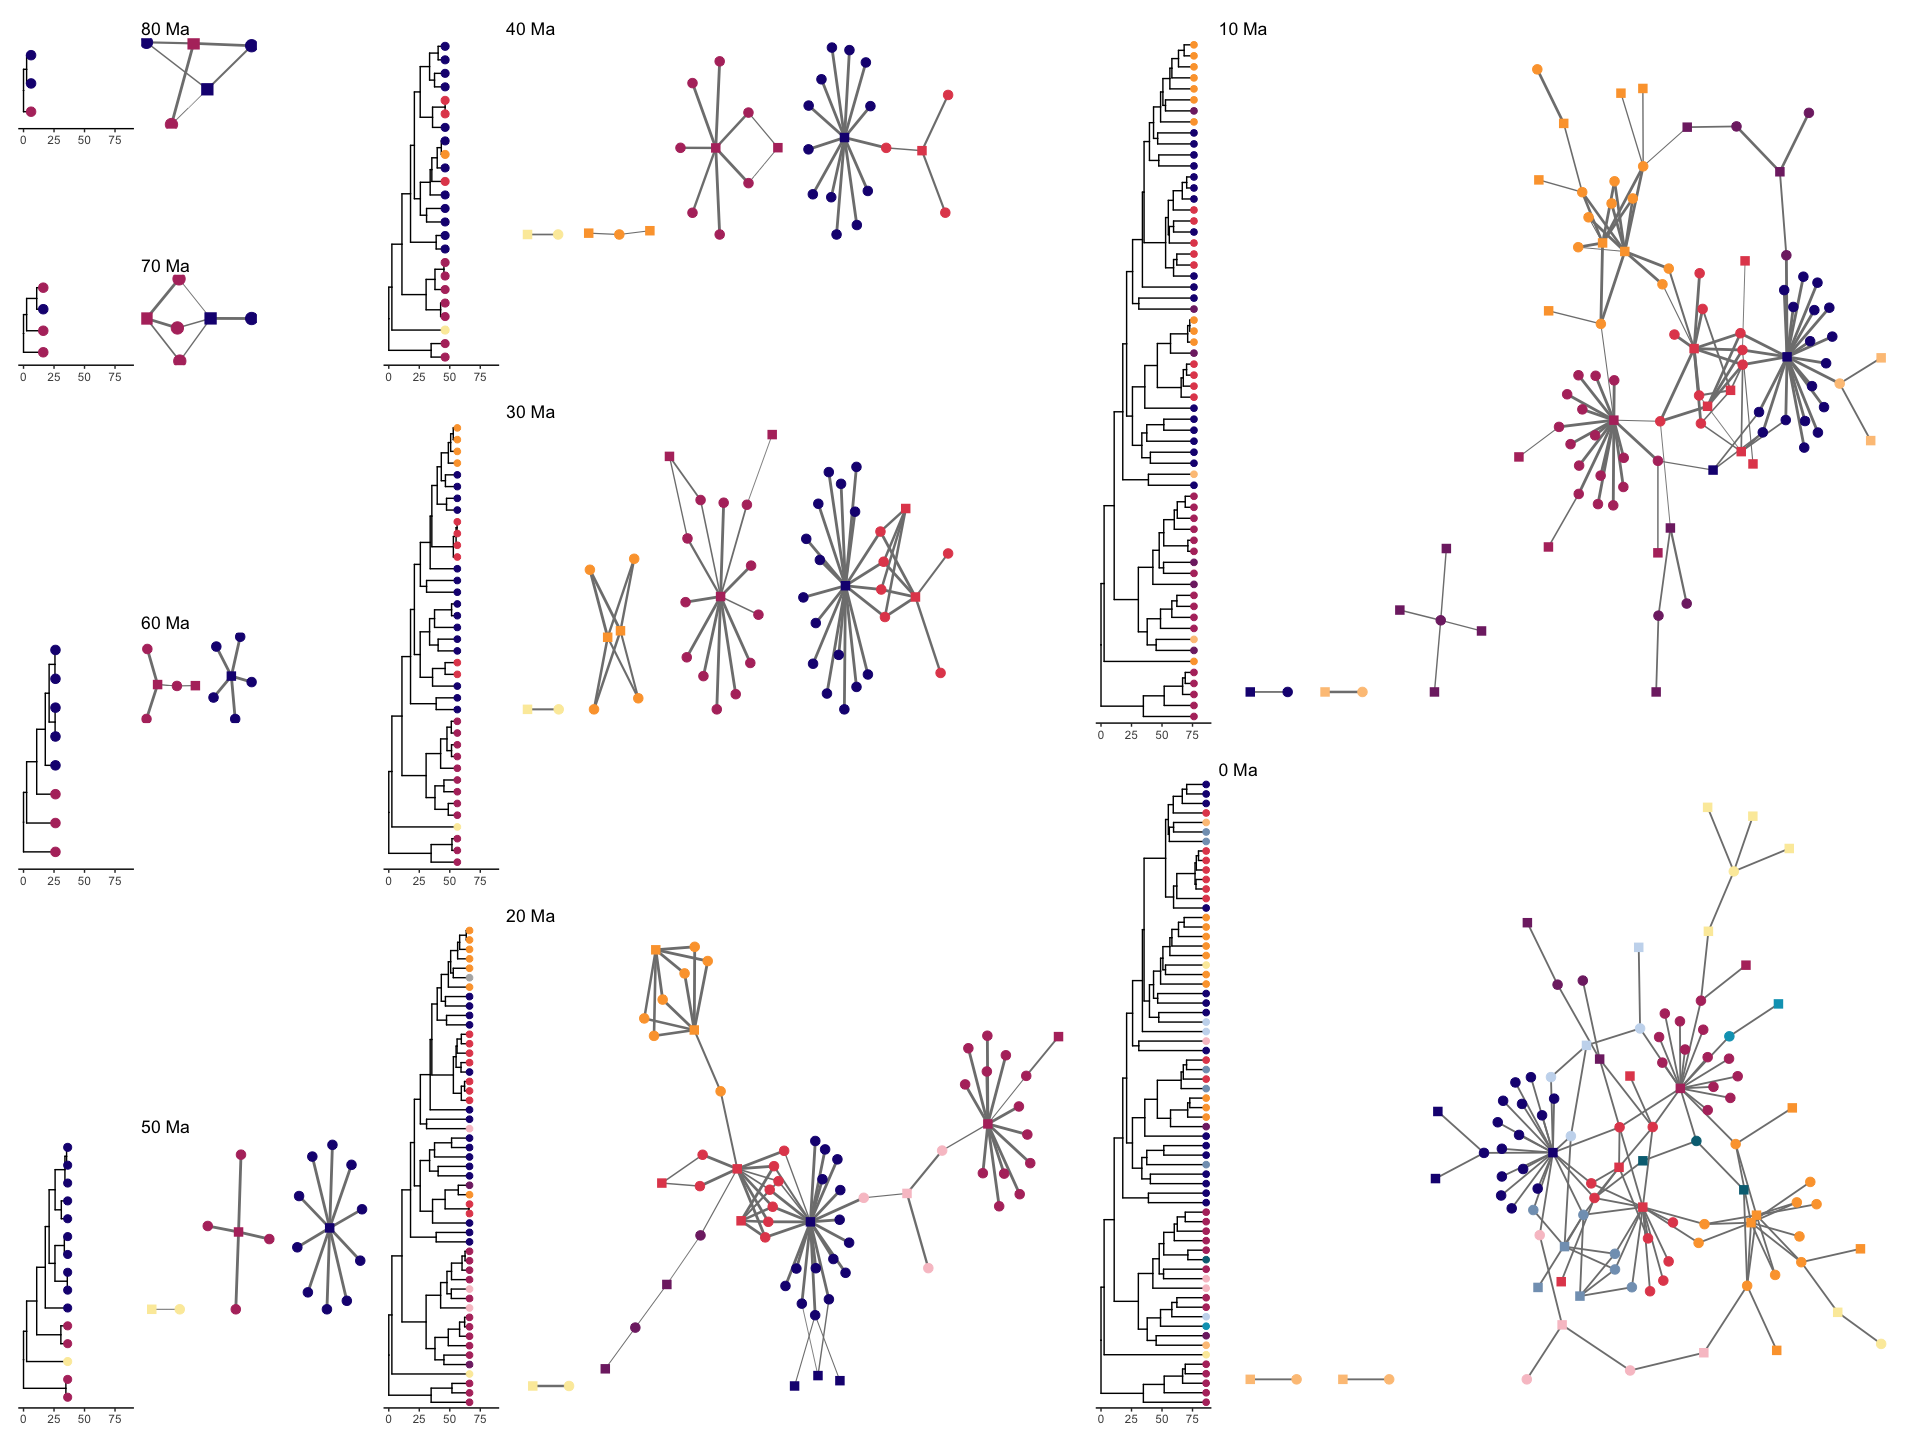
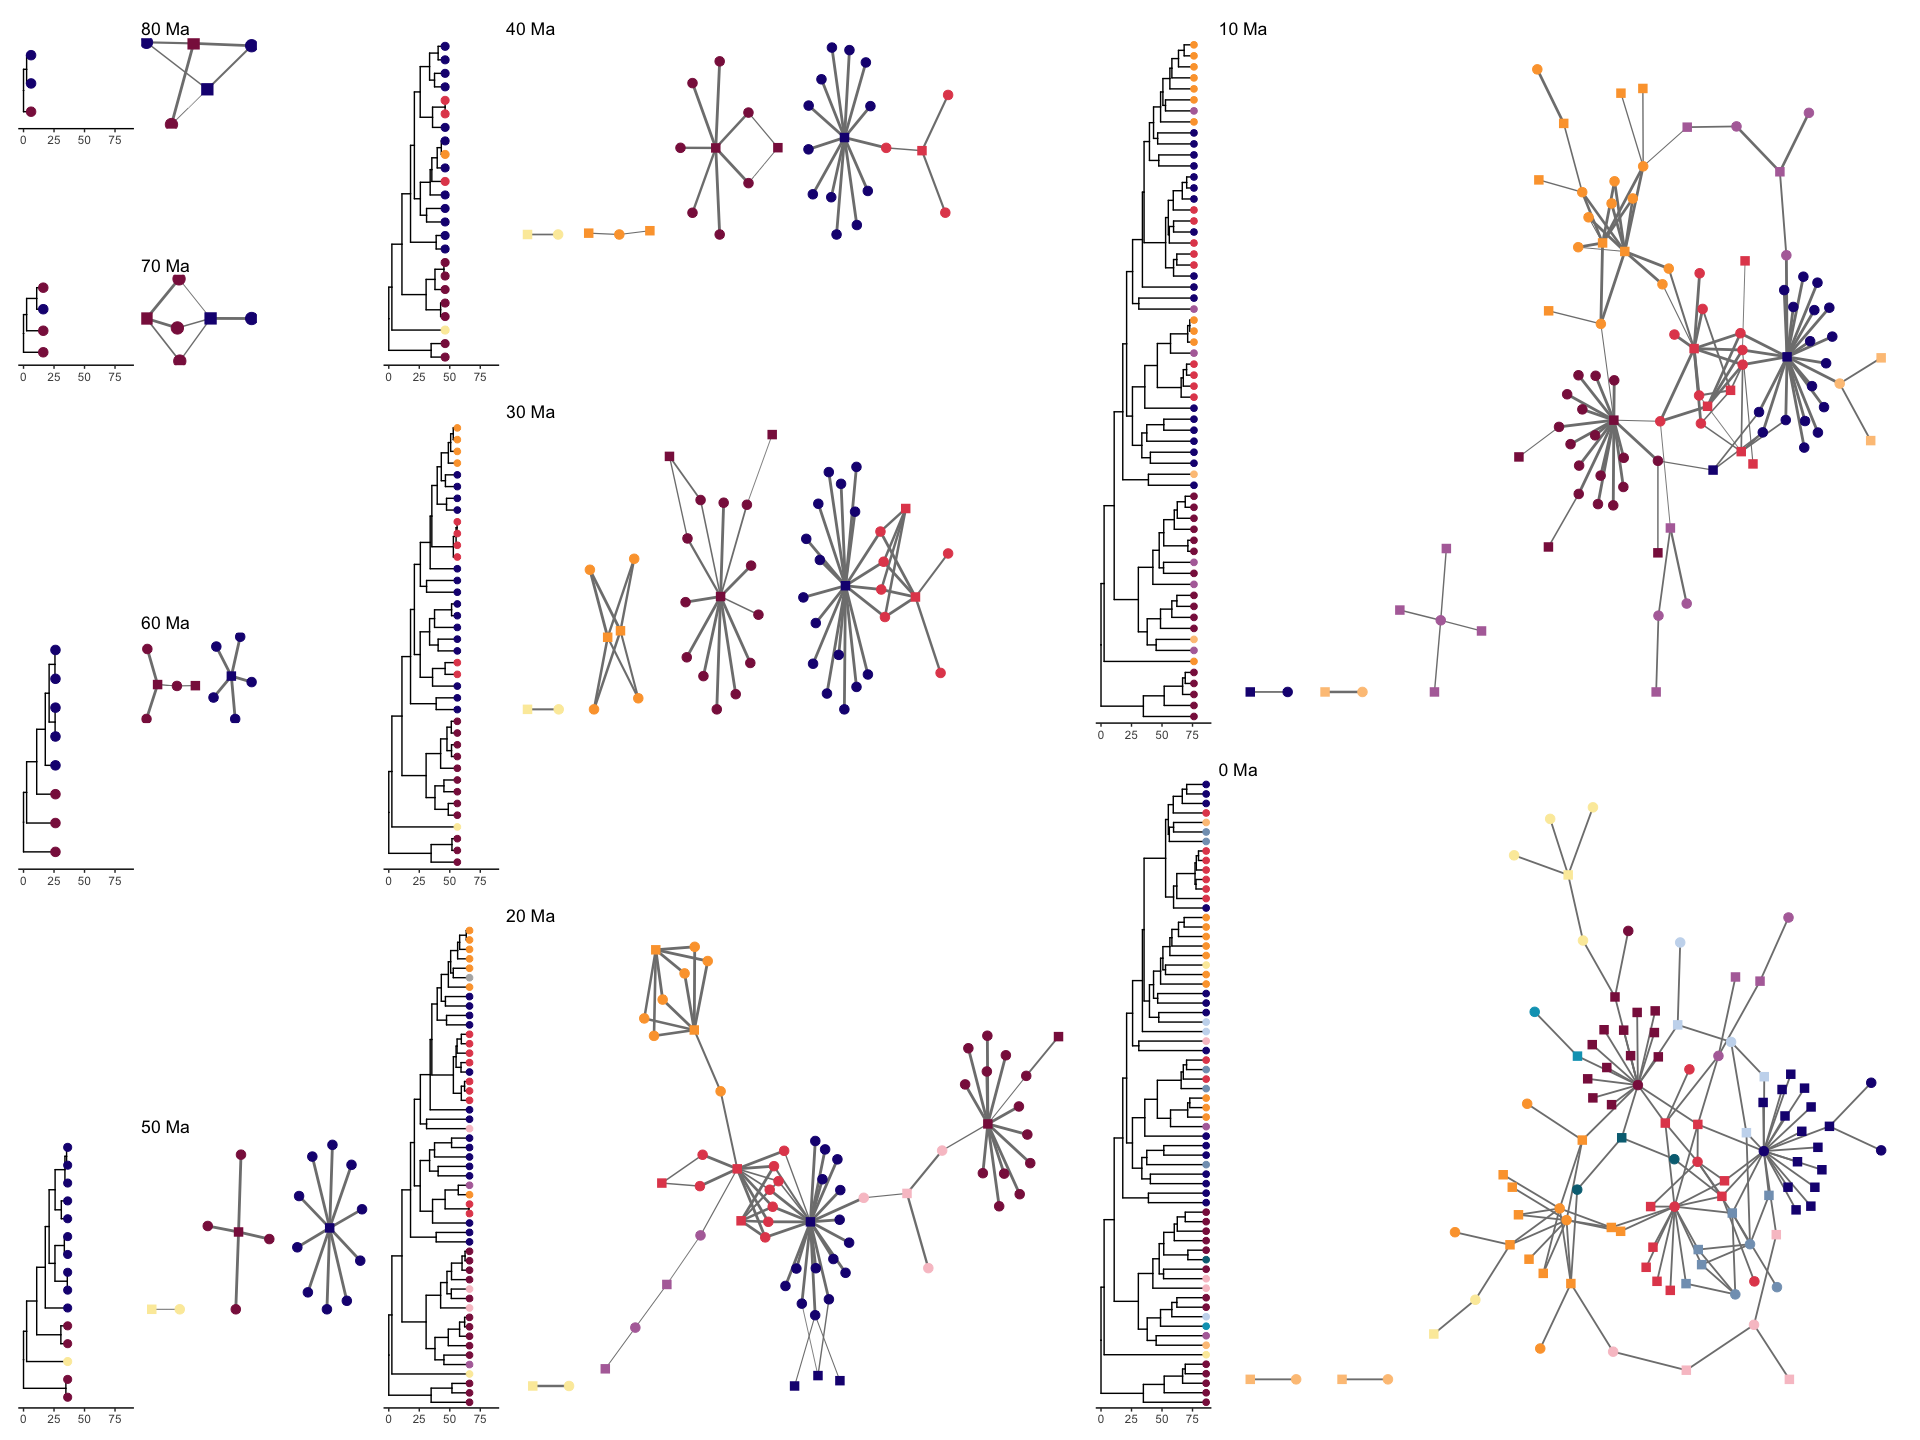
update evolnets functions in script 2 and paper name in all scripts

diff --git a/2-Character_history.md b/2-Character_history.md
@@ -1,13 +1,13 @@
 Pieridae host repertoire - Character history
 ================
 Mariana Braga
-21 May, 2021
+09 July, 2021
 
 ------------------------------------------------------------------------
 
-Script 2 for analyses performed in Braga et al. 2021 *Evolution of
-butterfly-plant networks over time, as revealed by Bayesian inference of
-host repertoire*.
+Script 2 for analyses performed in Braga et al. 2021 Ecology Letters
+*Phylogenetic reconstruction of ancestral ecological networks through
+time for pierid butterflies and their host plants*.
 
 ## Set up
 
@@ -145,20 +145,14 @@ you can skip it and load the edge list below.
 ``` r
 # which internal nodes to use? I'll go for all of them.
 nodes <- 67:131
-pp_at_nodes <- posterior_at_nodes(history_bl1, nodes, host_tree)
+pp_at_nodes <- evolnets::posterior_at_nodes(history_bl1, nodes, host_tree)[[2]]
 
-graph <- graph_from_incidence_matrix(pp_at_nodes, weighted = TRUE)
+graph <- igraph::graph_from_incidence_matrix(pp_at_nodes, weighted = TRUE)
 
-edge_list_nodes <- get.data.frame(graph, what = "edges") %>% 
-  mutate(from = factor(from, levels = host_tree$tip.label),
-         to = factor(to, levels = paste0("Index_",nodes))) %>% 
+edge_list_nodes <- igraph::get.data.frame(graph, what = "edges") %>% 
+  dplyr::mutate(from = factor(from, levels = paste0("Index_",nodes)),
+                to = factor(to, levels = host_tree$tip.label)) %>% 
   rename(p = weight)
-```
-
-You can simply read the edge list like so
-
-``` r
-edge_list_nodes <- readRDS("./inference/states_at_nodes_bl1.rds")
 ```
 
 Now we can plot the probabilities of interactions at internal nodes.
@@ -180,7 +174,7 @@ gg_all_nodes <- ggplot(edge_list_nodes, aes(x = to, y = from)) +
     axis.title.y = element_blank())
 
 # only high probability
-gg_high_nodes <- filter(edge_list_nodes, p > 0.9) %>%
+gg_high_nodes <- filter(edge_list_nodes, p >= 0.9) %>%
   ggplot(aes(x = to, y = from)) + 
   geom_tile(aes(fill = p)) +
   scale_x_discrete(drop = FALSE) +
@@ -199,7 +193,7 @@ gg_high_nodes <- filter(edge_list_nodes, p > 0.9) %>%
 gg_all_nodes + gg_high_nodes
 ```
 
-![](2-Character_history_files/figure-gfm/unnamed-chunk-13-1.png)<!-- -->
+![](2-Character_history_files/figure-gfm/unnamed-chunk-12-1.png)<!-- -->
 
 ### Ancestral networks
 
@@ -224,12 +218,13 @@ ages <- seq(80,10,-10)
 
 ``` r
 # slow!
-pp_at_ages <- posterior_at_ages(history_bl1, ages, tree, host_tree)
+at_ages <- posterior_at_ages(history_bl1, ages, tree, host_tree)
+pp_at_ages <- at_ages[[2]]
 ```
 
 ``` r
 # quick solution 
-pp_at_ages <- readRDS("./inference/list_m_at_ages_bl1.rds")
+pp_at_ages <- readRDS("./inference/pp_at_ages.rds")
 ```
 
 We can add the extant network to the list with all ancestral networks,
@@ -250,9 +245,9 @@ higher than the threshold are assumed to be present and all others are
 assumed absent.
 
 ``` r
-weighted_net_10 <- get_incidence_matrix_at_ages(pp_at_ages, pt = 0.1, weighted = TRUE)
-weighted_net_50 <- get_incidence_matrix_at_ages(pp_at_ages, pt = 0.5, weighted = TRUE)
-binary_net_90 <- get_incidence_matrix_at_ages(pp_at_ages, pt = 0.9, weighted = FALSE)
+weighted_net_10 <- get_summary_network(pp_at_ages, pt = 0.1, weighted = TRUE)
+weighted_net_50 <- get_summary_network(pp_at_ages, pt = 0.5, weighted = TRUE)
+binary_net_90 <- get_summary_network(pp_at_ages, pt = 0.9, weighted = FALSE)
 ```
 
 Now we can identify the modules in each of the three summary networks at
@@ -287,7 +282,7 @@ for(i in 1:length(weighted_net_50)){
 
 ``` r
 # you can check the modules for some network like so
-plotModuleWeb(wmod50_50, labsize = 0.4)
+bipartite::plotModuleWeb(wmod50_50, labsize = 0.4)
 ```
 
 ![](2-Character_history_files/figure-gfm/one_wmodule-1.png)<!-- -->
@@ -310,7 +305,7 @@ list_wtgraphs50 <- list()
 for(n in 1:length(weighted_net_50)){
   wnet <- as.matrix(weighted_net_50[[n]])
   
-  wgraph <- as_tbl_graph(wnet, directed = F) %>% 
+  wgraph <- as_tbl_graph(t(wnet), directed = F) %>%    
     left_join(filter(all_wmod50_edited, age == ages[n]), by = "name") %>% 
     select(type, name, module)
   
@@ -349,13 +344,13 @@ list_tip_dataw50[[9]] <- tibble(label = tree$tip.label) %>%
   inner_join(filter(all_wmod50_edited, age == 0), by = c("label" = "name"))
 ```
 
-**Plot ggtree and ggraph (Fig. 4 in the paper)**
+**Plot ggtree and ggraph (Fig. 3 in the paper)**
 
 ``` r
 # Choose colors and sizes
 wmod_levels50 <- c(paste0('M',1:12))
-custom_palw50 <- c("#b4356c","#1b1581","#e34c5b","#fca33a","#fbeba9","#fdc486",
-                 "#802b72","#f8c4cc","#c8d9ee","#82a0be","#00a2bf","#006e82")
+custom_palw50 <- c("#8a1c4c","#1b1581","#e34c5b","#fca33a","#fbeba9","#fdc486",
+                 "#b370a8","#f8c4cc","#c8d9ee","#82a0be","#00a2bf","#006e82")
 tip_size = c(3,3,3,2.5,2.5,2,2,2,2)
 node_size = c(4,4,3,3,3,3,3,3,3)
 
@@ -372,18 +367,14 @@ for(i in 1:length(ages)){
   
   assign(paste0("ggtw50_",ages[[i]]), ggt)
   
-  graph <- list_wtgraphs50[[i]] #%E>% 
-    #mutate(highpp = case_when(weight >= 0.5 ~ "high",
-    #                          weight < 0.5 ~ "low"))
+  graph <- list_wtgraphs50[[i]]
   
   ggn <- ggraph(graph, layout = 'stress') +
-    #geom_edge_link(aes(width = weight, color = highpp)) + 
     geom_edge_link(aes(width = weight), color = "grey50") +
     geom_node_point(aes(shape = type, color = factor(module, levels = wmod_levels50)), size = node_size[i]) +
     scale_shape_manual(values = c("square","circle")) +
     scale_color_manual(values = custom_palw50, na.value = "grey70", drop = F) +
     scale_edge_width("Probability", range = c(0.3,1)) +
-    #scale_edge_color_manual(values = c("grey50","grey80")) +
     labs(title = paste0(ages[[i]]," Ma"), shape = "", color = "Module") + 
     theme_void() +
     theme(legend.position = "none")
@@ -436,7 +427,7 @@ ladderize = FALSE. Also, the networks have been edited outside R for the
 figure in the paper. In any case, the information contained in the
 figure is the same.
 
-#### Other plots in Figure 2
+#### Other plots in Figure 1
 
 Now that we have found the modules for the extant network, we can
 produce other plots to combine with the extant butterfly tree and
@@ -452,14 +443,14 @@ phylob <- tree$tip.label
 phylop <- host_tree$tip.label
 
 plot_net <- edge_list %>% mutate(
-  to = factor(to, levels = phylob),
-  from = factor(from, levels = phylop))
+  from = factor(from, levels = phylob),
+  to = factor(to, levels = phylop))
 ```
 
 -   **Extant network with modules**
 
 ``` r
-ggplot(plot_net, aes(x = from, y = to, fill = factor(Module, levels = wmod_levels50))) +
+ggplot(plot_net, aes(x = to, y = from, fill = factor(Module, levels = wmod_levels50))) +
   geom_tile() +
   theme_bw() +
   scale_x_discrete(drop = FALSE) +
@@ -473,7 +464,7 @@ ggplot(plot_net, aes(x = from, y = to, fill = factor(Module, levels = wmod_level
     axis.title.y = element_blank())
 ```
 
-![](2-Character_history_files/figure-gfm/unnamed-chunk-26-1.png)<!-- -->
+![](2-Character_history_files/figure-gfm/unnamed-chunk-25-1.png)<!-- -->
 
 -   **Host tree with modules**
 
@@ -498,4 +489,4 @@ ggtree_but <- ggtree(tree) + geom_tiplab(size = 2) + geom_nodelab(size = 2) +
 ggtree_host + ggtree_but + plot_layout(widths = c(2,3))
 ```
 
-![](2-Character_history_files/figure-gfm/unnamed-chunk-29-1.png)<!-- -->
+![](2-Character_history_files/figure-gfm/unnamed-chunk-28-1.png)<!-- -->

diff --git a/1-Parameter_estimates.md b/1-Parameter_estimates.md
@@ -1,18 +1,20 @@
 Pieridae host repertoire - parameters
 ================
 Mariana Braga
-21 May, 2021
+09 July, 2021
 
 ------------------------------------------------------------------------
 
-Script 1 for analyses performed in Braga et al. 2021 *Evolution of
-butterfly-plant networks over time, as revealed by Bayesian inference of
-host repertoire*.
+Script 1 for analyses performed in Braga et al. 2021 Ecology Letters
+*Phylogenetic reconstruction of ancestral ecological networks through
+time for pierid butterflies and their host plants*.
 
 ### Parameter Estimates
 
 First we’ll read in the `log files` from the analyses in RevBayes. They
-contain all the sampled parameter values during MCMC.
+contain all the sampled parameter values during MCMC. The first two
+chains used the time-calibrated host tree, while the last two used the
+transformed host tree (all branch lengths = 1).
 
 ``` r
 chain1 <- read.table("./inference/out.2.real.pieridae.2s.log", header = TRUE)[,c(1,5,7:9)]
@@ -33,6 +35,7 @@ postb2 <- filter(chain4, generation >= 20000)
 We’ll use the Gelman and Rubin’s convergence diagnostic
 
 ``` r
+# Test convergence when measuring anagenetic distance between hosts (with time-calibrated host tree)  
 gelman.diag(mcmc.list(as.mcmc(postt), as.mcmc(postt2)))
 ```
 
@@ -50,6 +53,7 @@ gelman.diag(mcmc.list(as.mcmc(postt), as.mcmc(postt2)))
     ## 1.01
 
 ``` r
+# Test convergence when measuring cladogenetic distance between hosts (with transformed host tree)  
 gelman.diag(mcmc.list(as.mcmc(postb), as.mcmc(postb2)))
 ```
 
